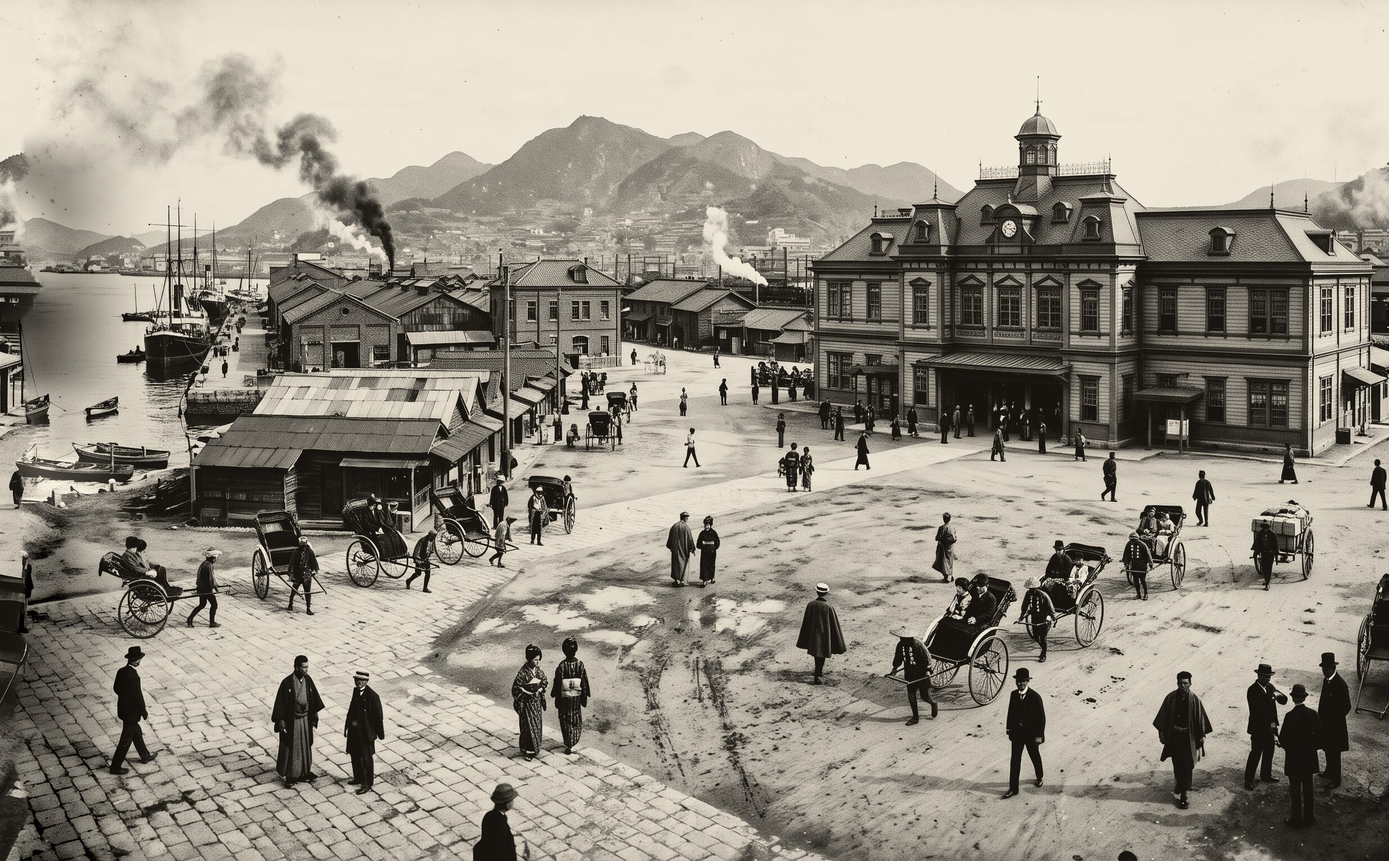
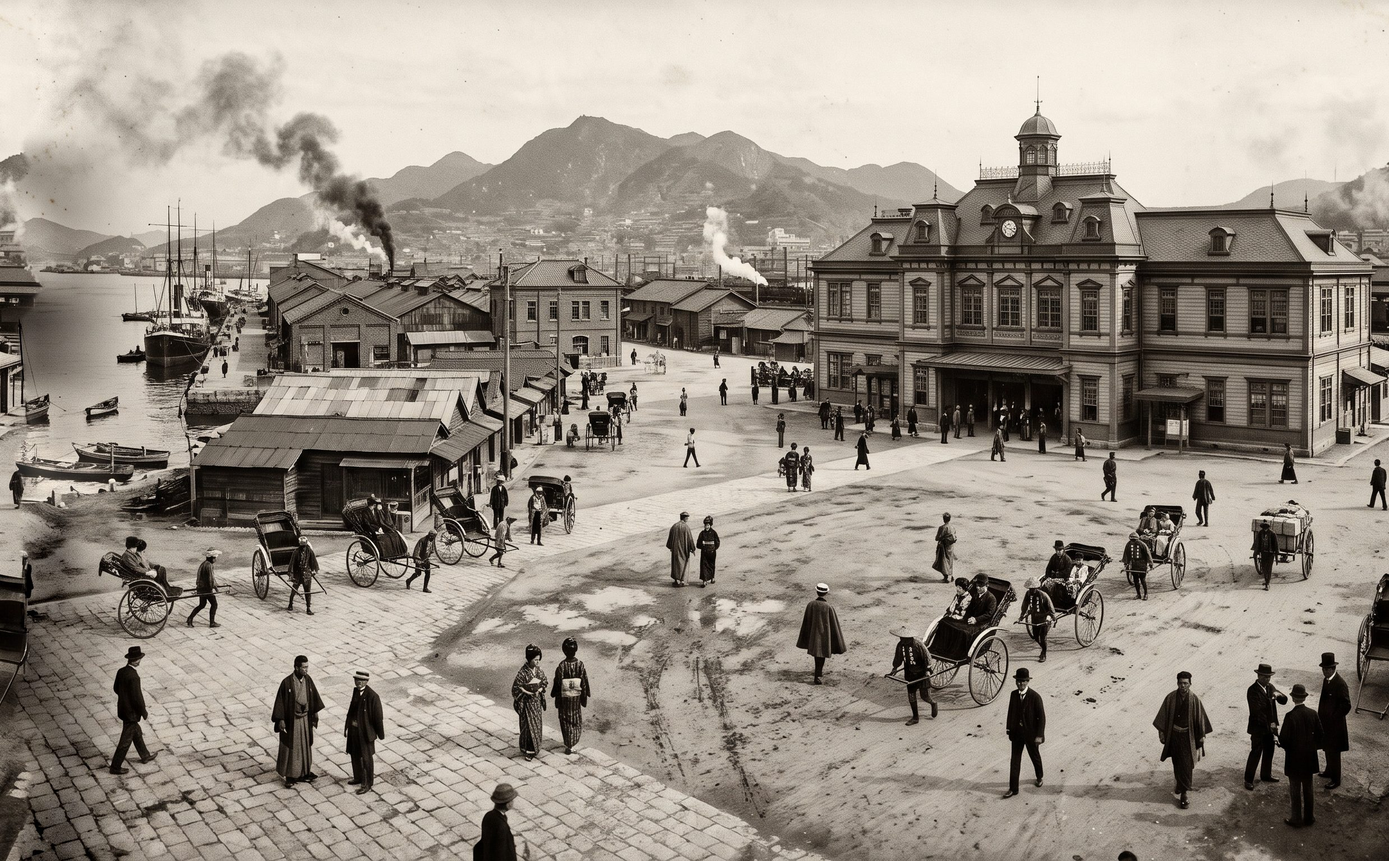
ARの門司駅の画像とフィルムの傷みを元に戻す
ARの画面にかけていた粒子・ちらつき・縦傷を外し、周辺を少し落とすだけにする。
門司駅（1914年）の360度画像は、銀色の白黒に変えずに生成したままの色で作り直した。

Changed region(s): [[0.0, 0.875, 0.0311, 0.9062]]

diff --git a/js/ar.js b/js/ar.js
@@ -29,41 +29,22 @@ const vertexShader = /* glsl */`
     gl_Position = projectionMatrix * modelViewMatrix * vec4(position, 1.0);
     vClip = gl_Position.xyw;
   }`;
-// 地図の白黒の時代（js/map/grade.js）と同じフィルムの傷み。film のない画像は周辺を少し落とすだけ
+// 画像は周辺を少し落とすだけ（時代ごとのフィルターはかけない）
 const fragmentShader = /* glsl */`
   uniform sampler2D map;
   uniform vec2 uRes;
-  uniform float uFilm, uFlicker, uFrame;
-  uniform vec4 uScratch;
   varying vec2 vUv;
   varying vec3 vClip;
   float hash(vec2 p) { return fract(sin(dot(p, vec2(127.1, 311.7))) * 43758.5453); }
-  float vnoise(vec2 p) {
-    vec2 i = floor(p), f = fract(p); f = f * f * (3.0 - 2.0 * f);
-    return mix(mix(hash(i), hash(i + vec2(1, 0)), f.x), mix(hash(i + vec2(0, 1)), hash(i + vec2(1, 1)), f.x), f.y);
-  }
   void main() {
     // 円筒の内側から見ると左右が逆になるので、横を反転して読む
     gl_FragColor = texture2D(map, vec2(1.0 - vUv.x, vUv.y));
     #include <colorspace_fragment>
     vec3 c = gl_FragColor.rgb;
     vec2 uv = vClip.xy / vClip.z * 0.5 + 0.5; // 画面の中の位置（左下0・右上1）
-    vec2 px = uv * uRes;
-    if (uFilm > 0.5) {
-      c *= uFlicker;
-      c += (hash(floor(px / 1.5) + uFrame * 7.13) - 0.5) * 0.07;
-      for (int i = 0; i < 3; i++) {
-        float sx = uScratch[i];
-        if (sx >= 0.0) {
-          float d = abs(uv.x - sx) * uRes.x;
-          float a = exp(-d * d / 1.2) * smoothstep(0.3, 0.75, vnoise(vec2(sx * 40.0, uv.y * 7.0 + uFrame)));
-          c = mix(c, vec3(0.94, 0.92, 0.86), a * uScratch.w);
-        }
-      }
-    }
     vec2 q = uv - 0.5;
-    c *= clamp(1.0 - dot(q, q) * mix(0.55, 1.45, uFilm), 0.0, 1.0);
-    c += (hash(px + fract(uFrame * 0.618) * 17.0) - 0.5) / 255.0;
+    c *= clamp(1.0 - dot(q, q) * 0.55, 0.0, 1.0);
+    c += (hash(uv * uRes) - 0.5) / 255.0;
     gl_FragColor = vec4(clamp(c, 0.0, 1.0), 1.0);
   }`;
 
@@ -145,11 +126,7 @@ export function createAR(app, world, data) {
 
     // ---------- 円筒と見どころ ----------
     const scene = new THREE.Scene();
-    const u = {
-      map: { value: null }, uRes: { value: new THREE.Vector2(1, 1) },
-      uFilm: { value: cfg.film ? 1 : 0 }, uFlicker: { value: 1 }, uFrame: { value: 0 },
-      uScratch: { value: new THREE.Vector4(-1, -1, -1, 0) },
-    };
+    const u = { map: { value: null }, uRes: { value: new THREE.Vector2(1, 1) } };
     scene.add(new THREE.Mesh(new THREE.CylinderGeometry(R, R, IH, 128, 1, true),
       new THREE.ShaderMaterial({ uniforms: u, vertexShader, fragmentShader, side: THREE.BackSide, depthWrite: false })));
 
@@ -368,7 +345,7 @@ export function createAR(app, world, data) {
     }
 
     // ---------- 描く ----------
-    let last = performance.now(), filmT = 0, scratchT = 0;
+    let last = performance.now();
     function draw(now) {
       camera.rotation.set(v.pitch, v.yaw, 0);
       camera.updateMatrixWorld();
@@ -404,21 +381,6 @@ export function createAR(app, world, data) {
         v.pitch += (v.goal[1] - v.pitch) * k;
         if (Math.abs(v.goal[0] - v.yaw) + Math.abs(v.goal[1] - v.pitch) < 1e-3) { [v.yaw, v.pitch] = v.goal; v.goal = null; }
         v.dirty = true;
-      }
-      // フィルムは 1 秒 24 コマ、縦傷は 0.4 秒ごとに出し直す
-      if (cfg.film) {
-        filmT += dt; scratchT += dt;
-        if (filmT >= 1 / 24) {
-          filmT %= 1 / 24;
-          u.uFrame.value = (u.uFrame.value + 1) % 4096;
-          u.uFlicker.value = 1 + (Math.random() - 0.5) * 0.07;
-          v.dirty = true;
-        }
-        if (scratchT > 0.4) {
-          scratchT = 0;
-          const sc = u.uScratch.value;
-          sc.set(...[0, 1, 2].map(() => (Math.random() < 0.25 ? 0.05 + Math.random() * 0.9 : -1)), 0.25 + Math.random() * 0.25);
-        }
       }
       for (const sp of spots) if (sp.t0 != null && !sp.done) { paint(sp, now); v.dirty = true; }
       if (!v.dirty) return;

diff --git a/tools/build_pano.py b/tools/build_pano.py
@@ -19,10 +19,6 @@ BLEND = 0.10  # 端を重ねる幅（横幅に対する割合）
 PATCHES = {
     "mojiko_retro": [((2330, 687, 2394, 702), 2397, 32)],
 }
-# 大正〜戦前はニュース映画の白黒（暖かい銀色）にそろえる。値は js/map/grade.js と同じ
-MONO = {"moji_station"}
-SILVER_HI = np.array([0.937, 0.906, 0.839])
-SILVER_LO = np.array([0.090, 0.078, 0.059])
 # サムネイルの中心（横・縦の割合）
 THUMB = {
     "dannoura": (0.50, 0.40), "moji_castle": (0.38, 0.45), "moji_station": (0.62, 0.35),
@@ -37,13 +33,6 @@ def patch(a, rects):
             w = min(sw, x1 - x)
             a[y0:y1, x:x + w] = src[:, :w]
     return a
-
-
-def silver(a):
-    luma = a @ np.array([0.2126, 0.7152, 0.0722])
-    t = np.clip((luma - 0.02) / 0.96, 0, 1)
-    m = (t * t * (3 - 2 * t))[..., None]
-    return 1 - (1 - m * SILVER_HI) * (1 - SILVER_LO)
 
 
 def box(a, r, axis):
@@ -101,8 +90,6 @@ def main():
         pid = src.stem
         a = np.asarray(Image.open(src).convert("RGB"), dtype=np.float64) / 255
         a = patch(a, PATCHES.get(pid, []))
-        if pid in MONO:
-            a = silver(a)
         h, w, _ = a.shape
         img = Image.fromarray((seamless(a) * 255 + 0.5).clip(0, 255).astype(np.uint8))
         img.save(OUT / f"{pid}.jpg", quality=82, optimize=True, progressive=True)
